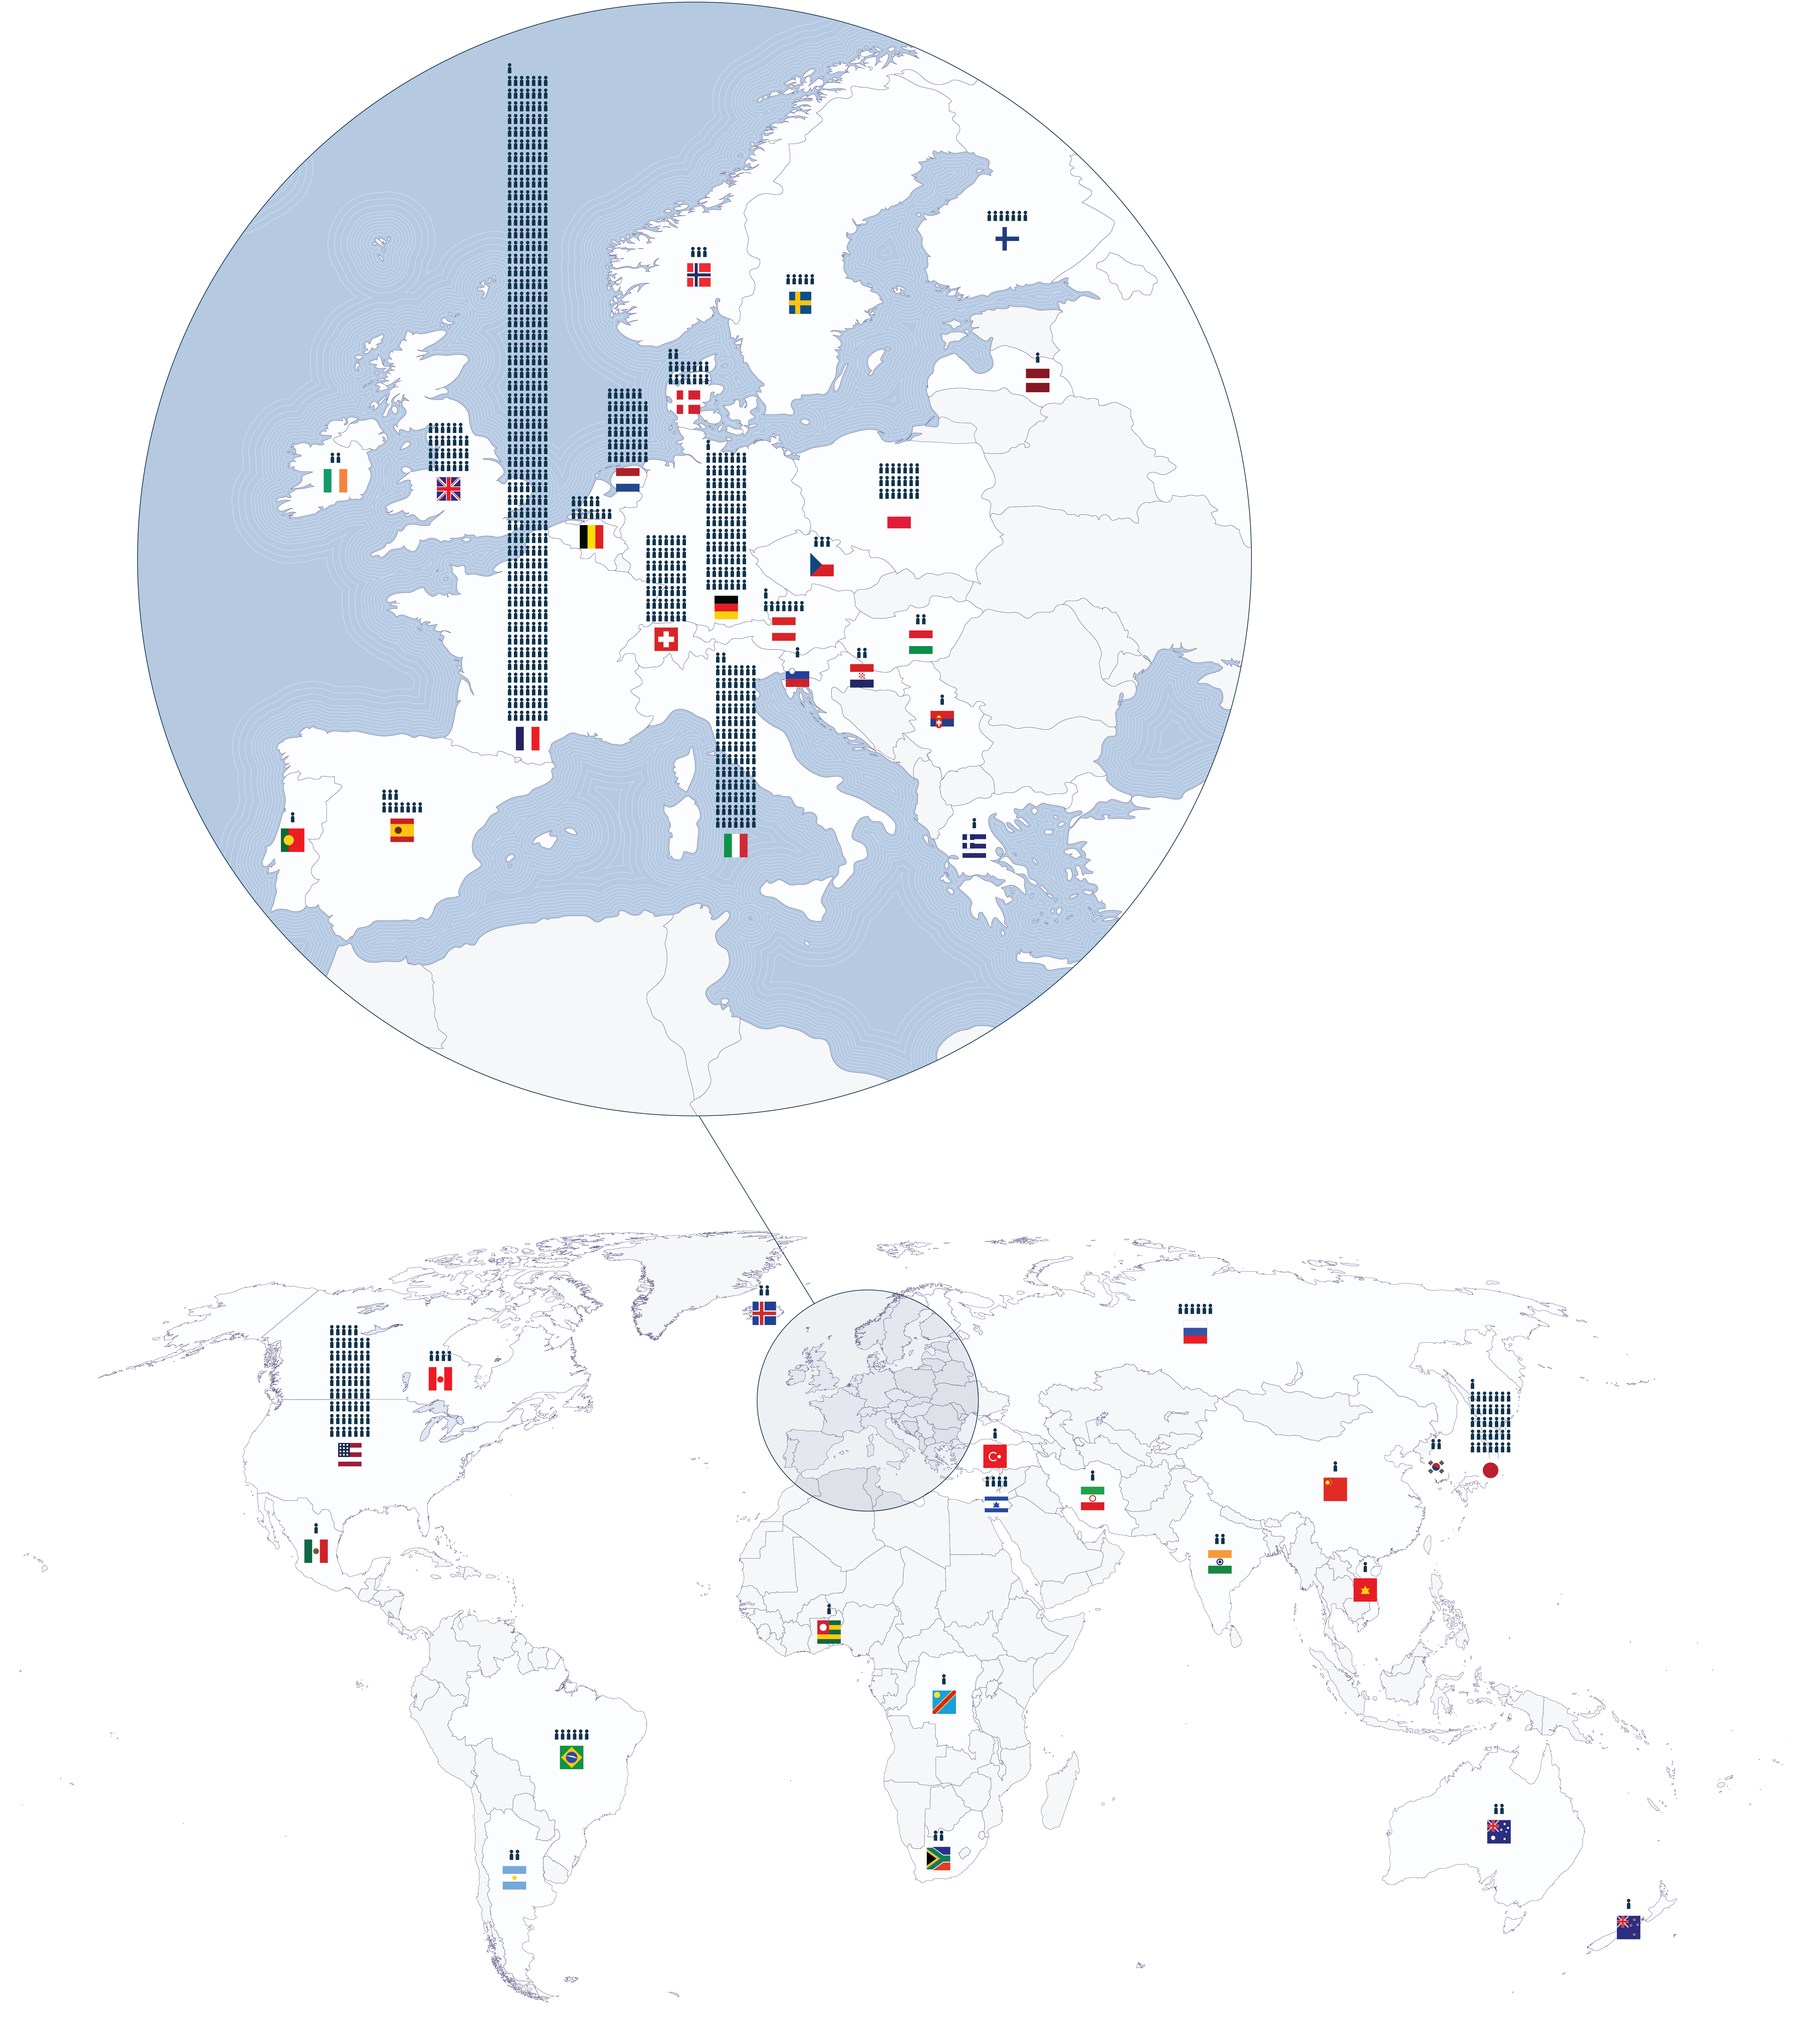
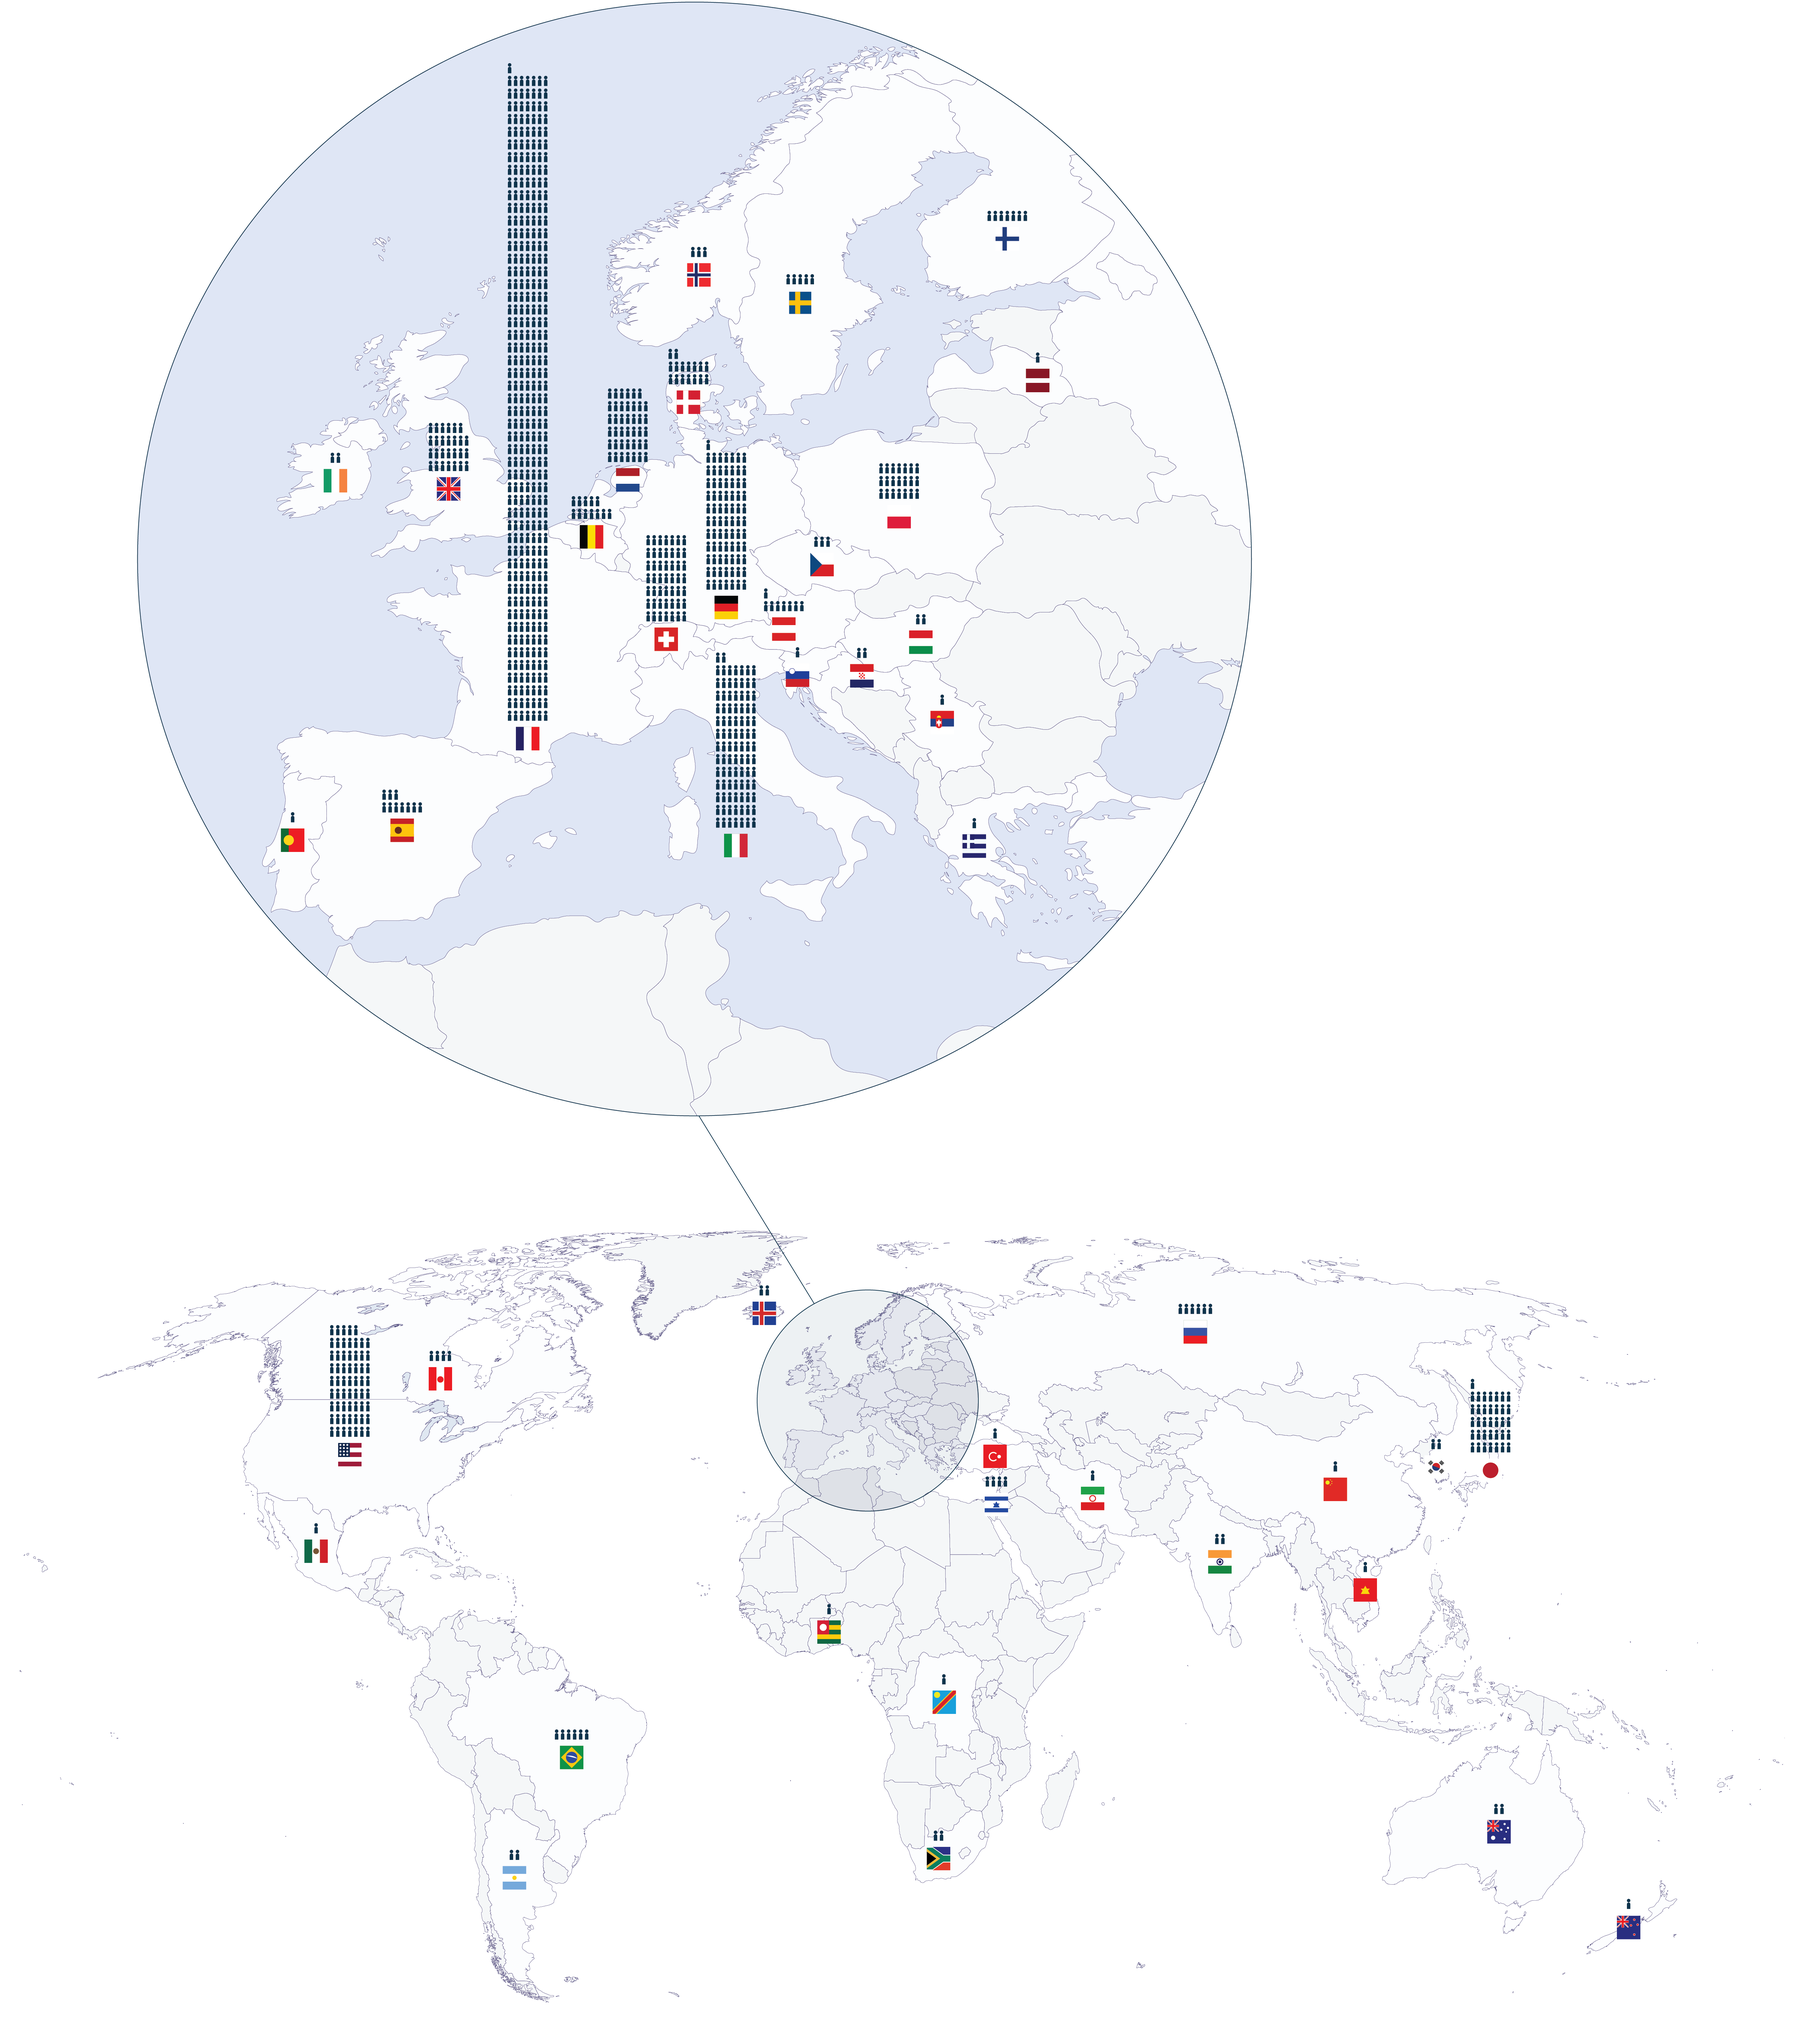
Map Change

Changed region(s): [[0.0623, 0.0, 0.6857, 0.5307]]

diff --git a/style.css b/style.css
@@ -310,7 +310,7 @@ body {
 
 .map_background {
   position: relative;
-  background-color: #b6c9df;
+  background-color: #dee5f4;
   width: 2639px;
   height: 1039px;
   left: -152px;
